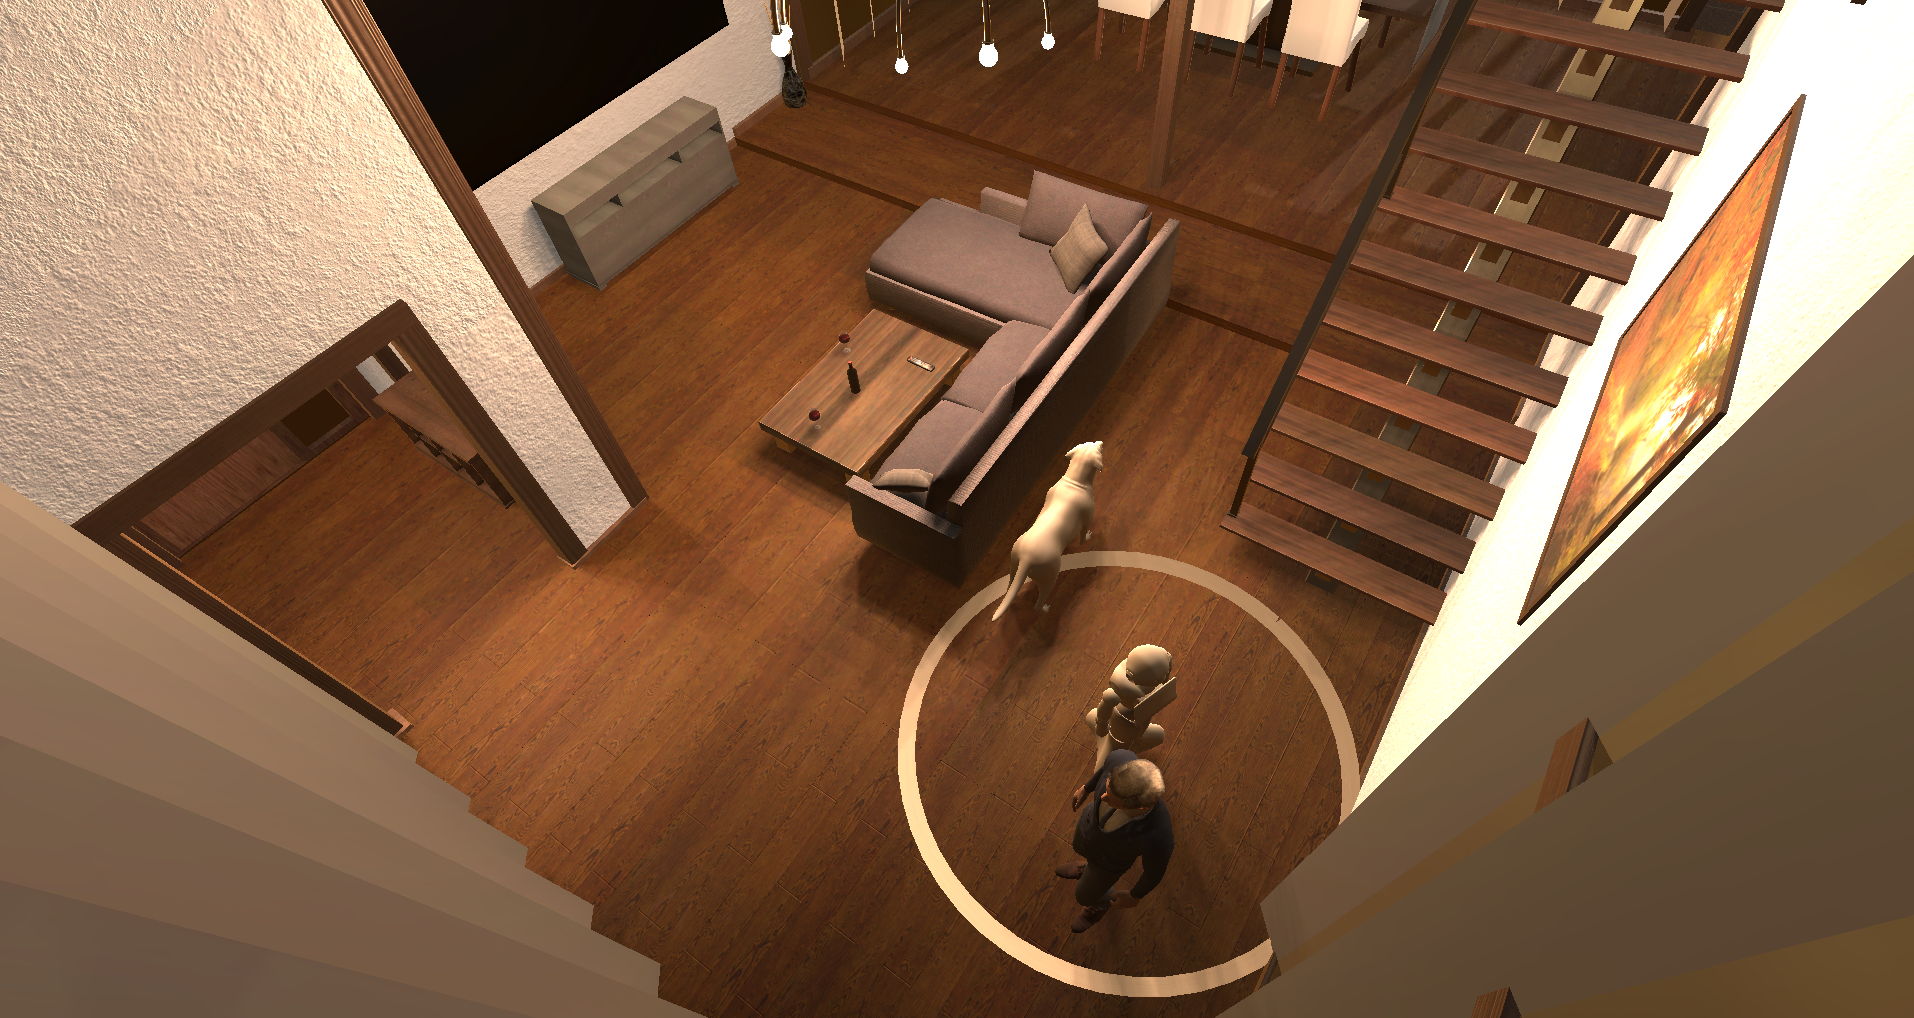
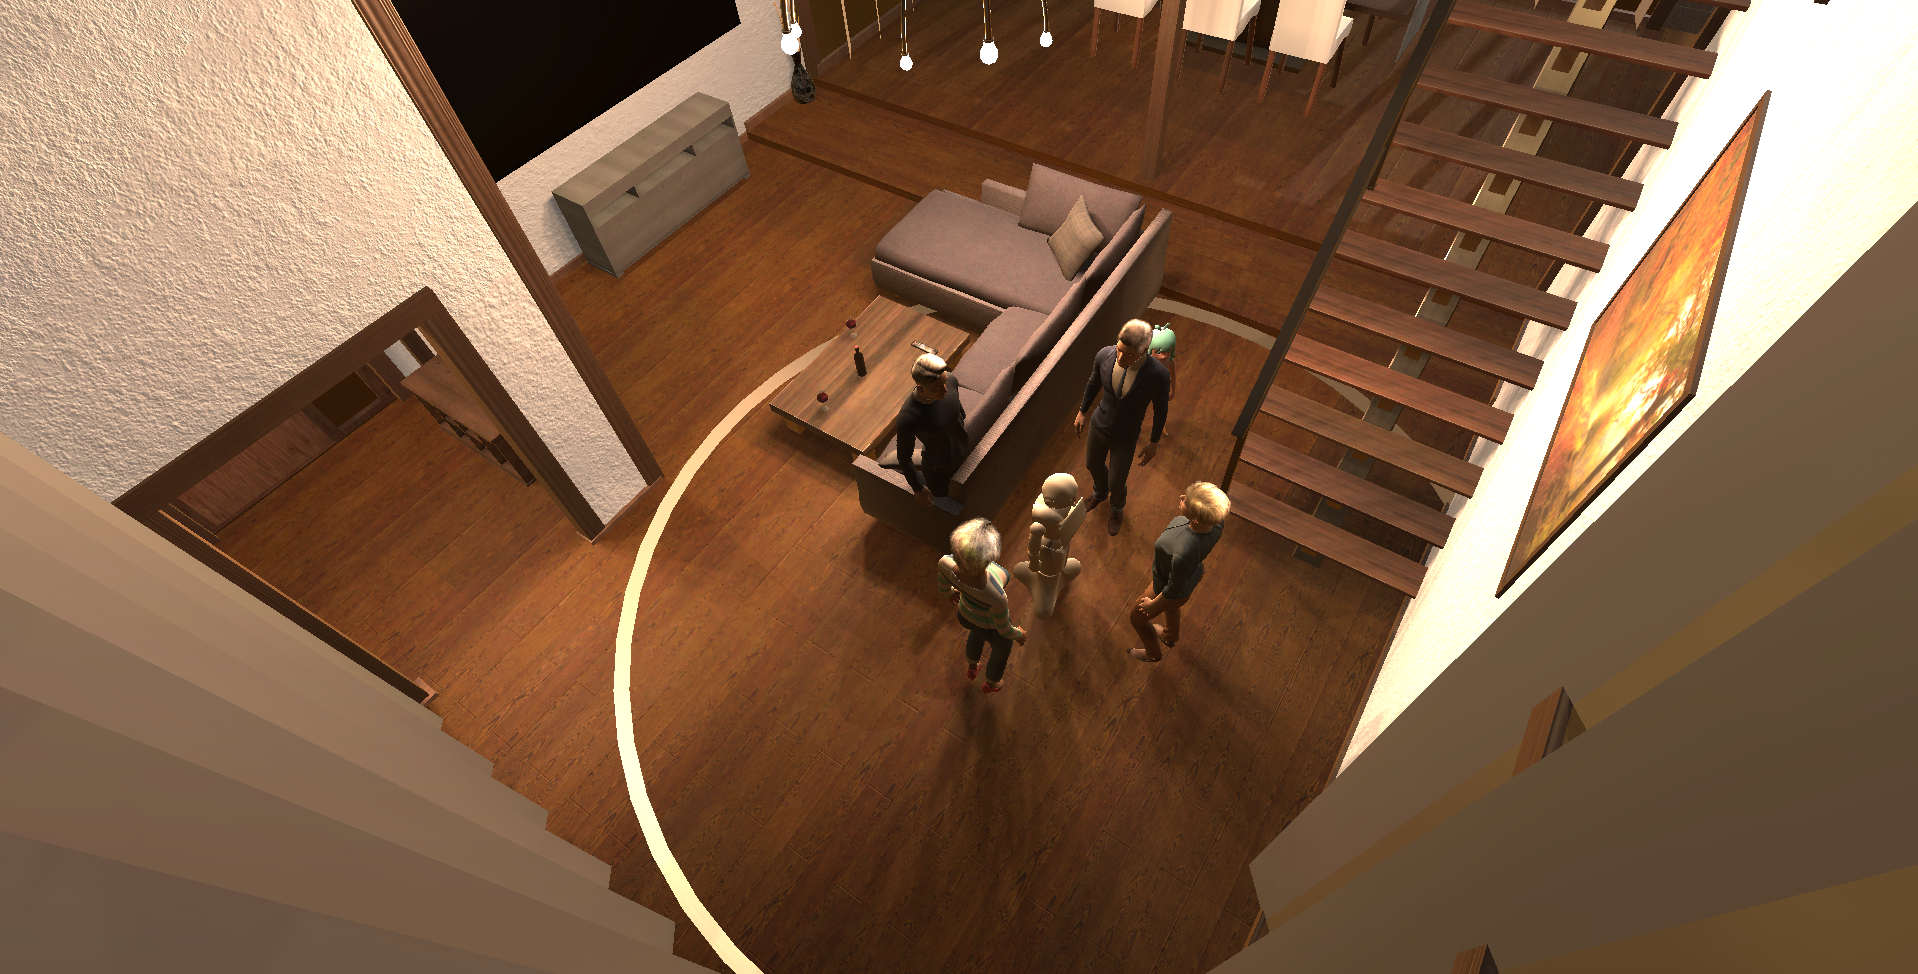
Added distance to humans and facing

diff --git a/Assets/demo.cs b/Assets/demo.cs
@@ -24,6 +24,7 @@ class demo : MonoBehaviour
     public GameObject child1;
     public GameObject child2;
     public GameObject dog;
+
     // Temporary:
     GameObject tempPepper;
     GameObject tempHuman1;
@@ -38,6 +39,7 @@ class demo : MonoBehaviour
     GameObject tempChild2;
     GameObject tempDog;
     private int standingHumanCount;
+    private int closestHuman;
 
     // Position variables:
     // Pepper
@@ -72,7 +74,6 @@ class demo : MonoBehaviour
 
     // Variables for objects instantiated:
     public int instantatedStandingHumans;
-    public int agentsInScene;
 
     // Variables for circle around Pepper
     [Range(0, 50)]
@@ -125,6 +126,7 @@ class demo : MonoBehaviour
     public int nAnimal;
     public float distAnimal = 50; // Euclidean distance to closest animal, if no animal -> 50
     public int nPeopleSofa;
+    public int agentsInScene;
 
 
     private void Start()
@@ -140,7 +142,7 @@ class demo : MonoBehaviour
 
         // Store human game objects
         List<GameObject> objects = new List<GameObject>() {human1, human2, human3, human4, human5, human6, layingHuman, sittingHuman, child1, child2, dog};
-        List<GameObject> temps = new List<GameObject>() {tempHuman1, tempHuman2, tempHuman3, tempHuman4, tempHuman5, tempHuman6, tempLayingHuman, tempSittingHuman, tempChild1, tempChild2, tempDog };
+        List<GameObject> temps = new List<GameObject>() {tempHuman1, tempHuman2, tempHuman3, tempHuman4, tempHuman5, tempHuman6, tempLayingHuman, tempSittingHuman, tempChild1, tempChild2, tempDog};
         // Attach animation
         //phone = phoneHuman.gameObject.GetComponent<Animation>();
         // Create csv file and initiate headers:
@@ -149,7 +151,7 @@ class demo : MonoBehaviour
         StartCoroutine(SpawnRandom(objects, temps));
     }
 
-    private (float, float) spawnPosition(int room_area)
+    private (float, float) SpawnPosition(int room_area)
     {
         float xPos;
         float zPos;
@@ -176,7 +178,7 @@ class demo : MonoBehaviour
         return (xPos, zPos);
     }
 
-    private (float, float) groupPosition(int room_area)
+    private (float, float) GroupPosition(int room_area)
     {
         float xPos;
         float zPos;
@@ -239,7 +241,7 @@ class demo : MonoBehaviour
         }
     }
 
-    private Vector3 groupCircle(Vector3 center, float radius, float ang)
+    private Vector3 GroupCircle(Vector3 center, float radius, float ang)
     {
         Vector3 pos;
         pos.x = center.x + radius * Mathf.Sin(ang * Mathf.Deg2Rad);
@@ -248,17 +250,17 @@ class demo : MonoBehaviour
         return pos;
     }
 
-    private bool invalidPosition(Vector3 pos, List<GameObject> temps, Vector3 pepperPos)
+    private bool InvalidPosition(Vector3 pos, List<GameObject> temps, Vector3 pepperPos)
     {
         // Check if colliding with Pepper
-        if (Vector3.Distance(pos, pepperPos) < 0.1)
+        if (Vector3.Distance(pos, pepperPos) < 0.4)
         {
             return true;
         }
          // Check if colliding with standing humans
         for (int i = 0; i < instantatedStandingHumans; i++)
         {
-            if (Vector3.Distance(pos, temps[i].gameObject.transform.position) < 0.1)
+            if (Vector3.Distance(pos, temps[i].gameObject.transform.position) < 0.4)
                 {
                     return true;
                 }
@@ -267,7 +269,7 @@ class demo : MonoBehaviour
         // Check if colliding with children
         for (int i = 0; i < nChildren; i++)
         {
-            if (Vector3.Distance(pos, temps[i+8].gameObject.transform.position) < 0.1)
+            if (Vector3.Distance(pos, temps[i+8].gameObject.transform.position) < 0.4)
             {
                 return true;
             }
@@ -276,7 +278,7 @@ class demo : MonoBehaviour
         // Check if colliding with animal
         for (int i = 0; i < nAnimal; i++)
         {
-            if (Vector3.Distance(pos, temps[i + 10].gameObject.transform.position) < 0.1)
+            if (Vector3.Distance(pos, temps[i + 10].gameObject.transform.position) < 0.4)
             {
                 return true;
             }
@@ -294,6 +296,10 @@ class demo : MonoBehaviour
             agentsInScene = 0;
             nChildren = 0;
             nAnimal = 0;
+            distHuman1 = 50;
+            distHuman2 = 50;
+            distHuman3 = 50;
+              
             // Determine number of standing people:
             standingHumanCount = Random.Range(1, 7);
             // Determine if group or not, only if 3 or more people
@@ -308,15 +314,21 @@ class demo : MonoBehaviour
                 // Determine group area
                 groupArea = Random.Range(0, 4);
                 // Determmine center position
-                (groupXPos, groupZPos) = groupPosition(groupArea);
+                (groupXPos, groupZPos) = GroupPosition(groupArea);
                 groupYPos = -0.921f;
                 Vector3 groupCenter = new Vector3(groupXPos, groupYPos, groupZPos);
                 // Sample group radius
-                groupRadius = Random.Range(0.3f, 1.5f);
+                if (groupArea == 1)
+                {
+                    groupRadius = Random.Range(0.5f, 0.8f);
+                } else
+                {
+                    groupRadius = Random.Range(0.5f, 1f);
+                }
                 // Spawn people in group
                 for (int i = 0; i < nPeopleGroup; i++){
                     float angle = i * (360f / nPeopleGroup);
-                    Vector3 pos = groupCircle(groupCenter, groupRadius, angle);
+                    Vector3 pos = GroupCircle(groupCenter, groupRadius, angle);
                     Vector3 relativePos = groupCenter - pos;
                     Quaternion rot = Quaternion.LookRotation(relativePos, Vector3.up);
                     temps[i] = Instantiate(objects[i], pos, rot);
@@ -362,7 +374,7 @@ class demo : MonoBehaviour
                     {
                         pepperArea = Random.Range(0, 4);
                     }
-                    (pepperXPos, pepperZPos) = spawnPosition(pepperArea);
+                    (pepperXPos, pepperZPos) = SpawnPosition(pepperArea);
                     pepperYPos = -0.921f;
                     Vector3 pepperPos = new Vector3(pepperXPos, pepperYPos, pepperZPos);
                     // Should Pepper face group or not
@@ -412,7 +424,7 @@ class demo : MonoBehaviour
                 // Instantiate Pepper
                 // Define spawn position
                 pepperArea = Random.Range(0, 4);
-                (pepperXPos, pepperZPos) = spawnPosition(pepperArea);
+                (pepperXPos, pepperZPos) = SpawnPosition(pepperArea);
                 pepperYPos = -0.921f;
                 Vector3 pepperPos = new Vector3(pepperXPos, pepperYPos, pepperZPos);
                 // Should Pepper face group or not
@@ -455,13 +467,13 @@ class demo : MonoBehaviour
                     }
                 }
 
-                (humanXPos, humanZPos) = spawnPosition(humanArea);
+                (humanXPos, humanZPos) = SpawnPosition(humanArea);
                 humanYPos = -0.921f;
                 Vector3 humanPos = new Vector3(humanXPos, humanYPos, humanZPos);
                 // Check if something's already there
-                while (invalidPosition(humanPos, temps, new Vector3(pepperXPos, pepperYPos, pepperZPos)))
+                while (InvalidPosition(humanPos, temps, new Vector3(pepperXPos, pepperYPos, pepperZPos)))
                     {
-                    (humanXPos, humanZPos) = spawnPosition(humanArea);
+                    (humanXPos, humanZPos) = SpawnPosition(humanArea);
                     humanYPos = -0.921f;
                     humanPos = new Vector3(humanXPos, humanYPos, humanZPos);
                 }
@@ -509,13 +521,13 @@ class demo : MonoBehaviour
             {
                 // Spawn first child
                 childArea = Random.Range(0, 4);
-                (childXPos, childZPos) = spawnPosition(childArea);
+                (childXPos, childZPos) = SpawnPosition(childArea);
                 childYPos = -0.921f;
                 Vector3 childPos = new Vector3(childXPos, childYPos, childZPos);
                 // Check if something's already there
-                while (invalidPosition(childPos, temps, new Vector3(pepperXPos, pepperYPos, pepperZPos)))
+                while (InvalidPosition(childPos, temps, new Vector3(pepperXPos, pepperYPos, pepperZPos)))
                 {
-                    (childXPos, childZPos) = spawnPosition(childArea);
+                    (childXPos, childZPos) = SpawnPosition(childArea);
                     childYPos = -0.921f;
                     childPos = new Vector3(childXPos, childYPos, childZPos);
                 }
@@ -531,13 +543,13 @@ class demo : MonoBehaviour
                 {
                     // Spawn second child
                     childArea = Random.Range(0, 4);
-                    (childXPos, childZPos) = spawnPosition(childArea);
+                    (childXPos, childZPos) = SpawnPosition(childArea);
                     childYPos = -0.921f;
                     childPos = new Vector3(childXPos, childYPos, childZPos);
                     // Check if something's already there
-                    while (invalidPosition(childPos, temps, new Vector3(pepperXPos, pepperYPos, pepperZPos)))
+                    while (InvalidPosition(childPos, temps, new Vector3(pepperXPos, pepperYPos, pepperZPos)))
                     {
-                        (childXPos, childZPos) = spawnPosition(childArea);
+                        (childXPos, childZPos) = SpawnPosition(childArea);
                         childYPos = -0.921f;
                         childPos = new Vector3(childXPos, childYPos, childZPos);
                     }
@@ -555,7 +567,7 @@ class demo : MonoBehaviour
             }
             else
             {
-                distChildren = 0;
+                distChildren = 50;
                 nChildren = 0;
             }
             nPeople += nChildren;
@@ -564,15 +576,14 @@ class demo : MonoBehaviour
             // Have animals roughly every 5th scene:
             if (Random.Range(0, 5) == 1)
             {
-                // If there's a group, avoid that area:
                 animalArea = Random.Range(0, 4);
-                (animalXPos, animalZPos) = spawnPosition(animalArea);
+                (animalXPos, animalZPos) = SpawnPosition(animalArea);
                 animalYPos = -0.921f;
                 Vector3 animalPos = new Vector3(animalXPos, animalYPos, animalZPos);
                 // Check if something's already there
-                while (invalidPosition(animalPos, temps, new Vector3(pepperXPos, pepperYPos, pepperZPos)))
+                while (InvalidPosition(animalPos, temps, new Vector3(pepperXPos, pepperYPos, pepperZPos)))
                 {
-                    (animalXPos, animalZPos) = spawnPosition(animalArea);
+                    (animalXPos, animalZPos) = SpawnPosition(animalArea);
                     animalYPos = -0.921f;
                     animalPos = new Vector3(animalXPos, animalYPos, animalZPos);
                 }
@@ -583,15 +594,104 @@ class demo : MonoBehaviour
                 agentsInScene += 1;
                 nAnimal = 1;
                 distAnimal = Vector3.Distance(animalPos, new Vector3(pepperXPos, pepperYPos, pepperZPos));
-            } else
+            }
+            else
             {
-                distAnimal = 0;
+                distAnimal = 50;
                 nAnimal = 0;
             }
 
+            // Find distance to the 3 closest humans:
+            // Iterate over all standing humans, not children or animals!
+            for (int i = 0; i < instantatedStandingHumans; i++)
+            {
+                if (Vector3.Distance(temps[i].gameObject.transform.position, new Vector3(pepperXPos, pepperYPos, pepperZPos)) < distHuman3)
+                {
+                    if (Vector3.Distance(temps[i].gameObject.transform.position, new Vector3(pepperXPos, pepperYPos, pepperZPos)) < distHuman2)
+                    {
+                        if (Vector3.Distance(temps[i].gameObject.transform.position, new Vector3(pepperXPos, pepperYPos, pepperZPos)) < distHuman1)
+                        {
+                            distHuman3 = distHuman2;
+                            distHuman2 = distHuman1;
+                            distHuman1 = Vector3.Distance(temps[i].gameObject.transform.position, new Vector3(pepperXPos, pepperYPos, pepperZPos));
+                            closestHuman = i;
+                        }
+                        else
+                        {
+                            distHuman3 = distHuman2;
+                            distHuman2 = Vector3.Distance(temps[i].gameObject.transform.position, new Vector3(pepperXPos, pepperYPos, pepperZPos));
+                        }
+                    }
+                    else
+                    {
+                        distHuman3 = Vector3.Distance(temps[i].gameObject.transform.position, new Vector3(pepperXPos, pepperYPos, pepperZPos));
+                    }
+                }
+                if (Math.Abs(distHuman3 - 50) < 1)
+                {
+                    Debug.Log(Vector3.Distance(temps[i].gameObject.transform.position, new Vector3(pepperXPos, pepperYPos, pepperZPos)));
+                }
+            }
+            // Then iterate over children
+            for (int i = 0; i < nChildren; i++)
+            {
+                if (Vector3.Distance(temps[i+8].gameObject.transform.position, new Vector3(pepperXPos, pepperYPos, pepperZPos)) < distHuman3)
+                {
+                    if (Vector3.Distance(temps[i+8].gameObject.transform.position, new Vector3(pepperXPos, pepperYPos, pepperZPos)) < distHuman2)
+                    {
+                        if (Vector3.Distance(temps[i+8].gameObject.transform.position, new Vector3(pepperXPos, pepperYPos, pepperZPos)) < distHuman1)
+                        {
+                            distHuman3 = distHuman2;
+                            distHuman2 = distHuman1;
+                            distHuman1 = Vector3.Distance(temps[i+8].gameObject.transform.position, new Vector3(pepperXPos, pepperYPos, pepperZPos));
+                            closestHuman = i+8;
+                        }
+                        else
+                        {
+                            distHuman3 = distHuman2;
+                            distHuman2 = Vector3.Distance(temps[i+8].gameObject.transform.position, new Vector3(pepperXPos, pepperYPos, pepperZPos));
+                        }
+                    }
+                    else
+                    {
+                        distHuman3 = Vector3.Distance(temps[i+8].gameObject.transform.position, new Vector3(pepperXPos, pepperYPos, pepperZPos));
+                    }
+                }
+            }
 
-            // Take screenshot and save to path
-            ScreenCapture.CaptureScreenshot("data/screenshots/context_" + count.ToString() + ".png");
+            // Determine wether Pepper should face closest human
+            if (facingGroup == 1)
+            {
+                facingHuman1 = 1;
+            }
+            else
+            {
+                facingHuman1 = 0;
+            }
+            // Face closest human roughly every 2nd scene when not group:
+            if (Random.Range(0, 3) == 1 && facingHuman1 == 0)
+            {
+                Vector3 closestHumanPos = temps[closestHuman].gameObject.transform.position;
+                Vector3 relativePos = closestHumanPos - tempPepper.gameObject.transform.position;
+                pepperRot = Quaternion.LookRotation(relativePos, Vector3.up);
+                tempPepper.gameObject.transform.rotation = pepperRot;
+                facingHuman1 = 1;
+
+            } else
+            {
+                Vector3 closestHumanPos = temps[closestHuman].gameObject.transform.position;
+                Vector3 relativePos = closestHumanPos - tempPepper.gameObject.transform.position;
+                pepperRot = Quaternion.LookRotation(relativePos, Vector3.up);
+                Vector3 temp_rot = pepperRot.eulerAngles;
+                temp_rot[1] = temp_rot[1] + 180;
+                pepperRot = Quaternion.Euler(temp_rot);
+                tempPepper.gameObject.transform.rotation = pepperRot;
+                facingHuman1 = 0;
+            }
+
+                //
+                // Take screenshot and save to path
+                ScreenCapture.CaptureScreenshot("data/screenshots/context_" + count.ToString() + ".png");
             // Write features to csv
             AppendToReport(new string[18] {
                 count.ToString(),
@@ -623,7 +723,7 @@ class demo : MonoBehaviour
                 Destroy(temps[i], 0.1f);
             }
 
-            yield return new WaitForSeconds(0.5f);
+            yield return new WaitForSeconds(0.2f);
             count += 1;
         }
 
